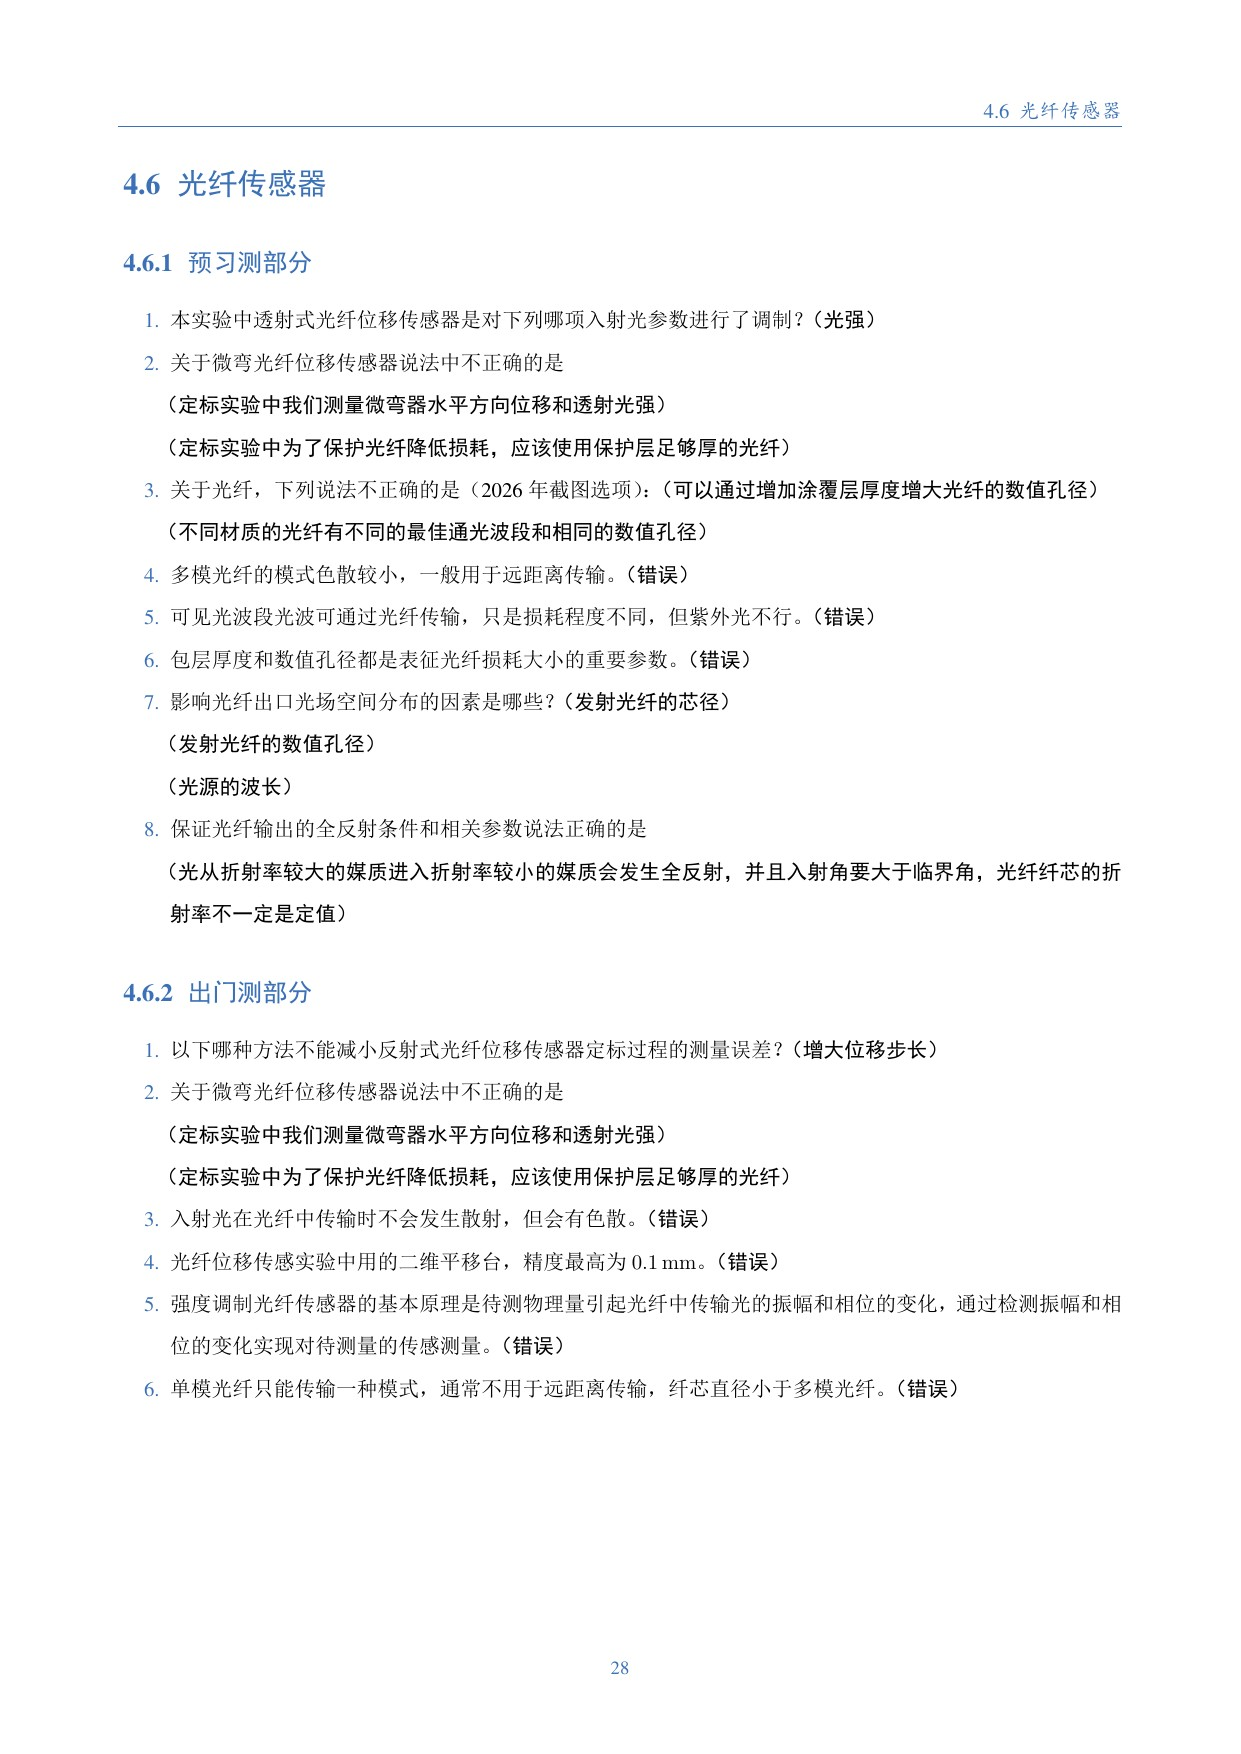
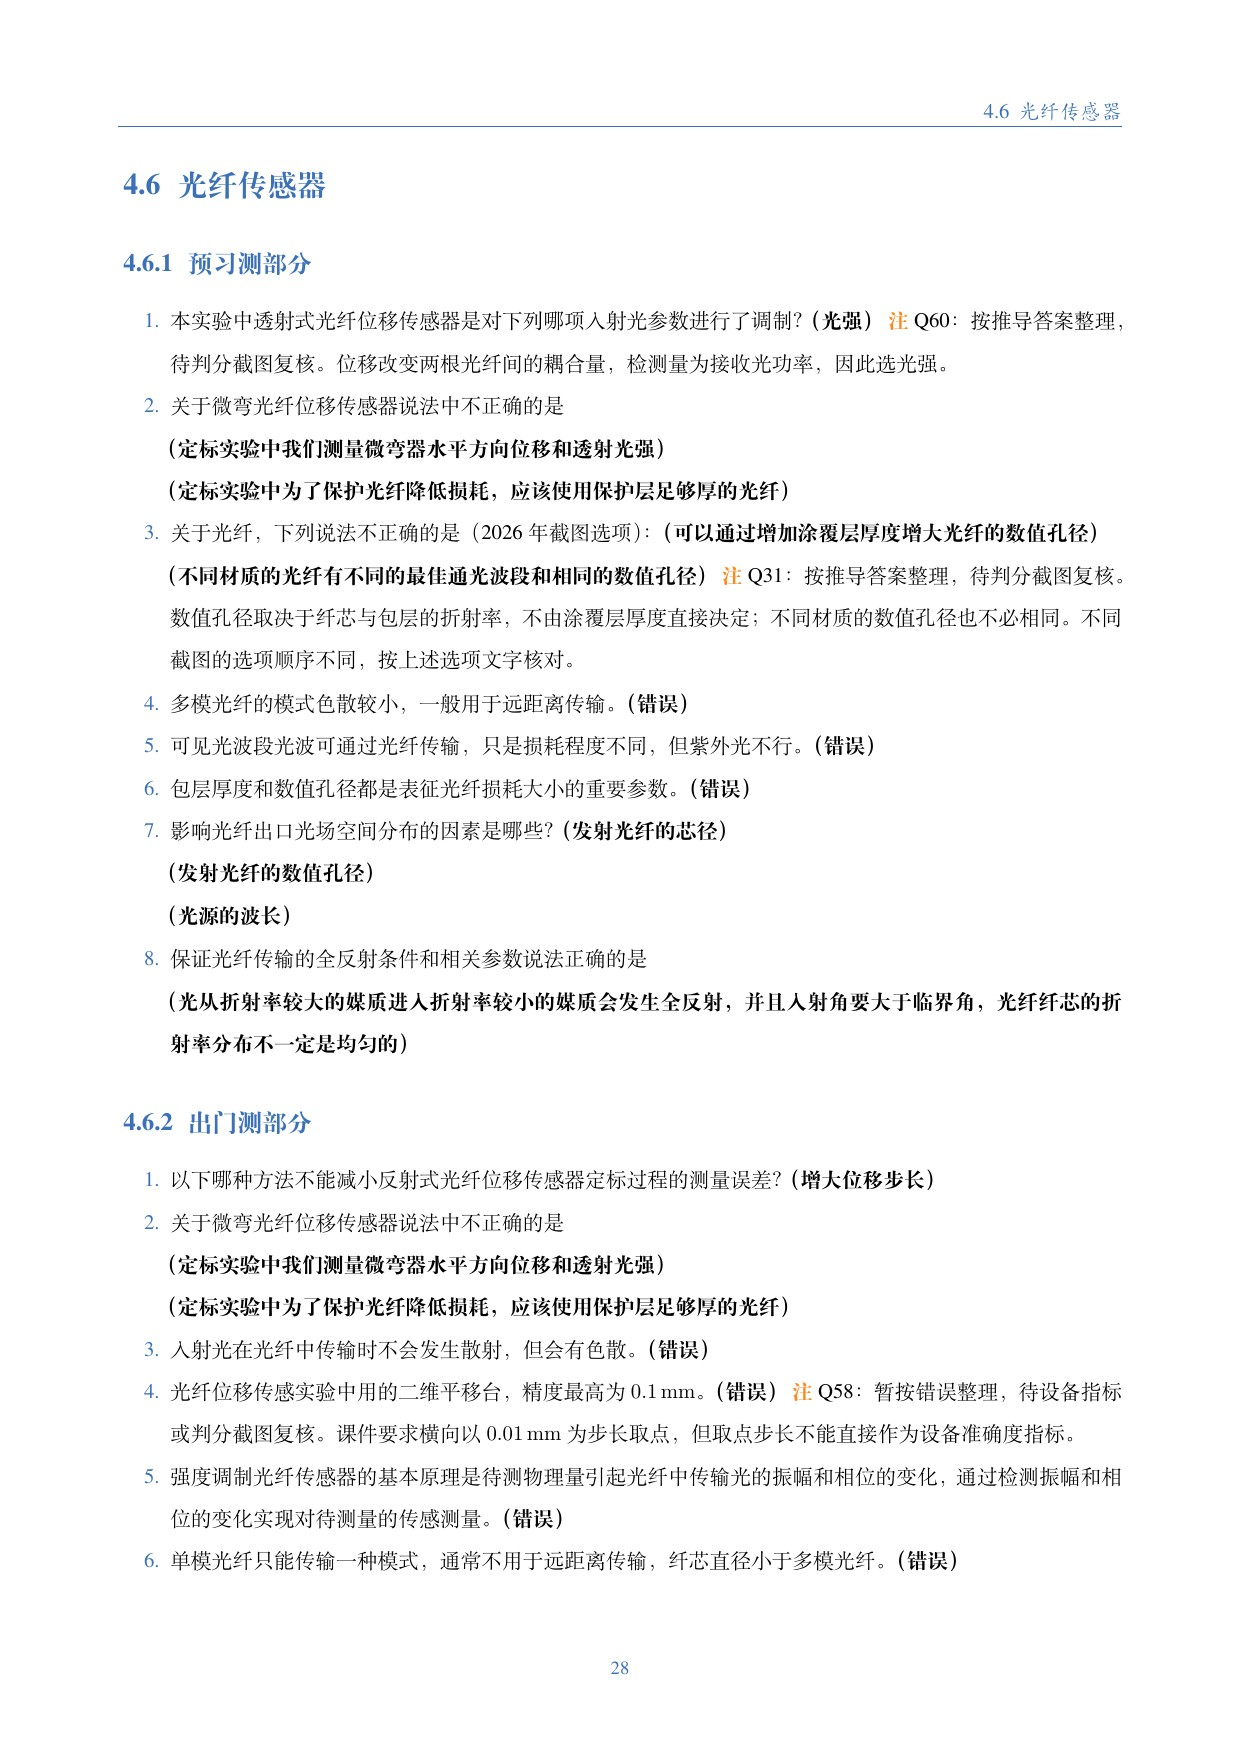
chore(dawu2): 同步二级大雾题库 v2.3（2026-11-03）
题库文件名为 v2.3，文档封面与更新日志标注为 Version 2.2。全 42 页，目录（27 个
章节标题 + 印刷页码）与 v2.1 完全一致，因此 scripts/slice_dawu2.py 的 EXPERIMENTS
页码映射无需调整，只把 PDF 常量指向 v2.3。

逐页比对 v2.1 → v2.3（非布局模式文本比对 + 逐页渲染像素比对），实质变化仅 6 页：

- 3.5 双臂电桥（p16-17）：补齐两张插图（图 3.2 双臂电桥电路与等效电路、图 3.4
  伏安法测量电阻的电路与等效电路，yy 提供）；图号顺延（四端接法 3.2→3.3、出门测
  3.3→3.5）；第 4 题删去「Ri1…Rix2 分别为各支路附加电阻」的冗长说明；出门测第 3
  题新增注解，提示图中 Ri1 标在电压表引线上、与 AB 支路的 RA 不是同一电阻
- 3.7 数字表改装（p20）：图号 3.4→3.6、3.5→3.7（前面插入了两张新图）
- 4.1 迈氏干涉仪（p25-26）：新增第 11 题与第 16 题（读数估读到 10⁻⁵ mm，附估读
  说明）、新增第 17 题（在钠光灯/单色发光二极管/白光/氦氖激光中相干长度最短为
  白光），原 11-14 题顺延为 12-15
- 4.5 超声定位与形貌成像（p32）：时差法声速公式改为 v = 2|S2-S1| / |t2-t1|
- 4.6 光纤传感器（p33）：新增 Q60 / Q31 / Q58 三条待复核注解；第 8 题题干「光纤
  输出」→「光纤传输」，选项「折射率不一定是定值」→「折射率分布不一定是均匀的」
- 封面与更新日志：日期改为 November 3, 2026，Version 2.0 → 2.2，并改写 V2.0 条目

重切 5 张图：Wheatstone_Bridge(16-17)、Digital_Meter(20-21)、
Michelson_Interferometer(25-26)、Ultrasonic_Locating(32)、Optical_Fiber_Sensor(33)。

其余 18 个实验的题目文本与 v2.1 完全一致；非平衡电桥(p19)、交流谐振(p23) 仅为圈码
①②③ 的排版位置变化，故未重切。

diff --git a/scripts/slice_dawu2.py b/scripts/slice_dawu2.py
@@ -2,8 +2,9 @@
 
 每个实验一张整图：单页实验直接渲染该页；多页实验纵向拼接后存为一张 JPG。
 
-题库版本：v2.0（2026-10-22）。新版本到位后，先把 PDF 放进 `二级大雾题库/`，
-更新下面的 PDF 文件名与 EXPERIMENTS 映射，再运行本脚本。
+题库版本：v2.3（2026-11-03；文档内封面标注 Version 2.2）。新版本到位后，先把 PDF
+放进 `二级大雾题库/`，更新下面的 PDF 文件名与 EXPERIMENTS 映射（页码未变则无需改），
+再运行本脚本。
 """
 from pathlib import Path
 import subprocess
@@ -12,7 +13,7 @@ import tempfile
 from PIL import Image  # type: ignore[import-not-found]  # 系统级安装，.venv 中无此包
 
 PROJECT = Path.cwd()
-PDF = PROJECT / "二级大雾题库" / "二级大雾题库v2.0.pdf"
+PDF = PROJECT / "二级大雾题库" / "二级大雾题库v2.3.pdf"
 OUT = PROJECT / "src" / "asserts" / "dawu2"
 DPI = 150
 
